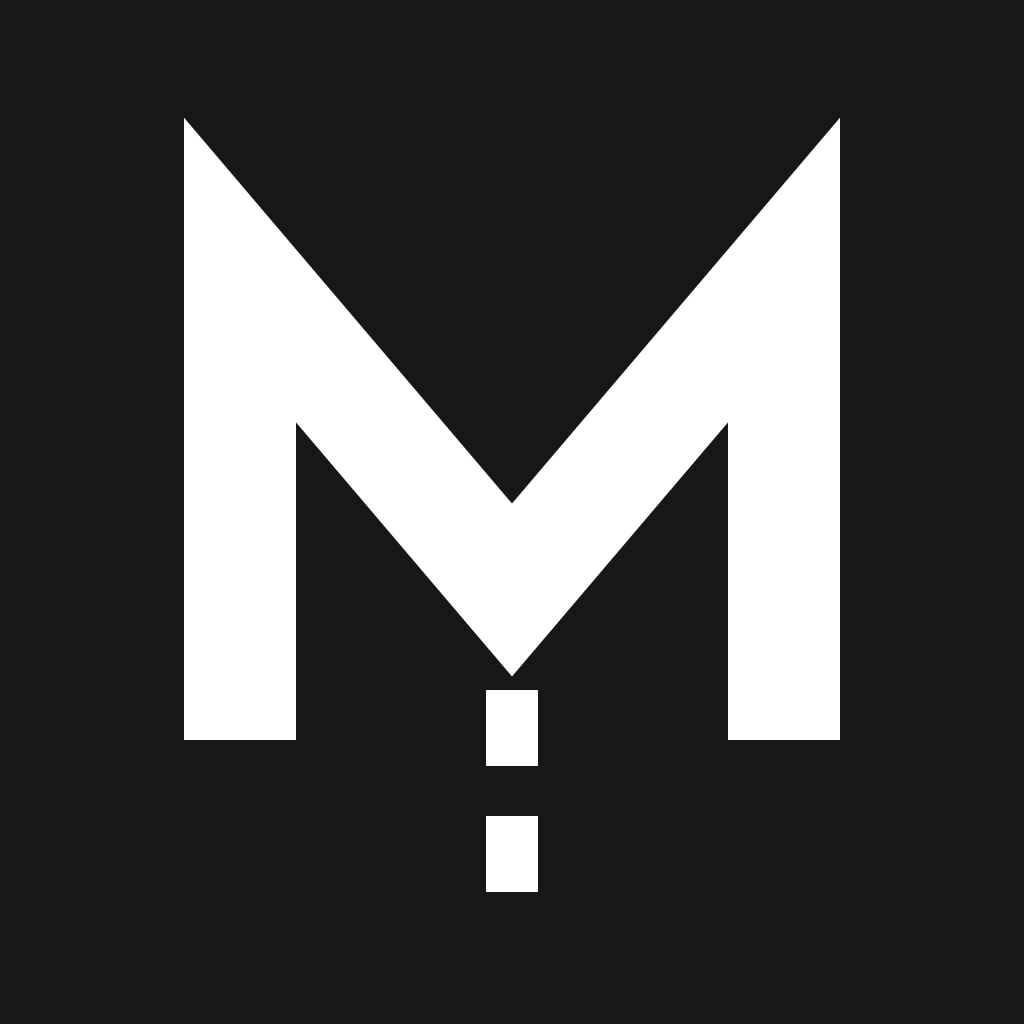
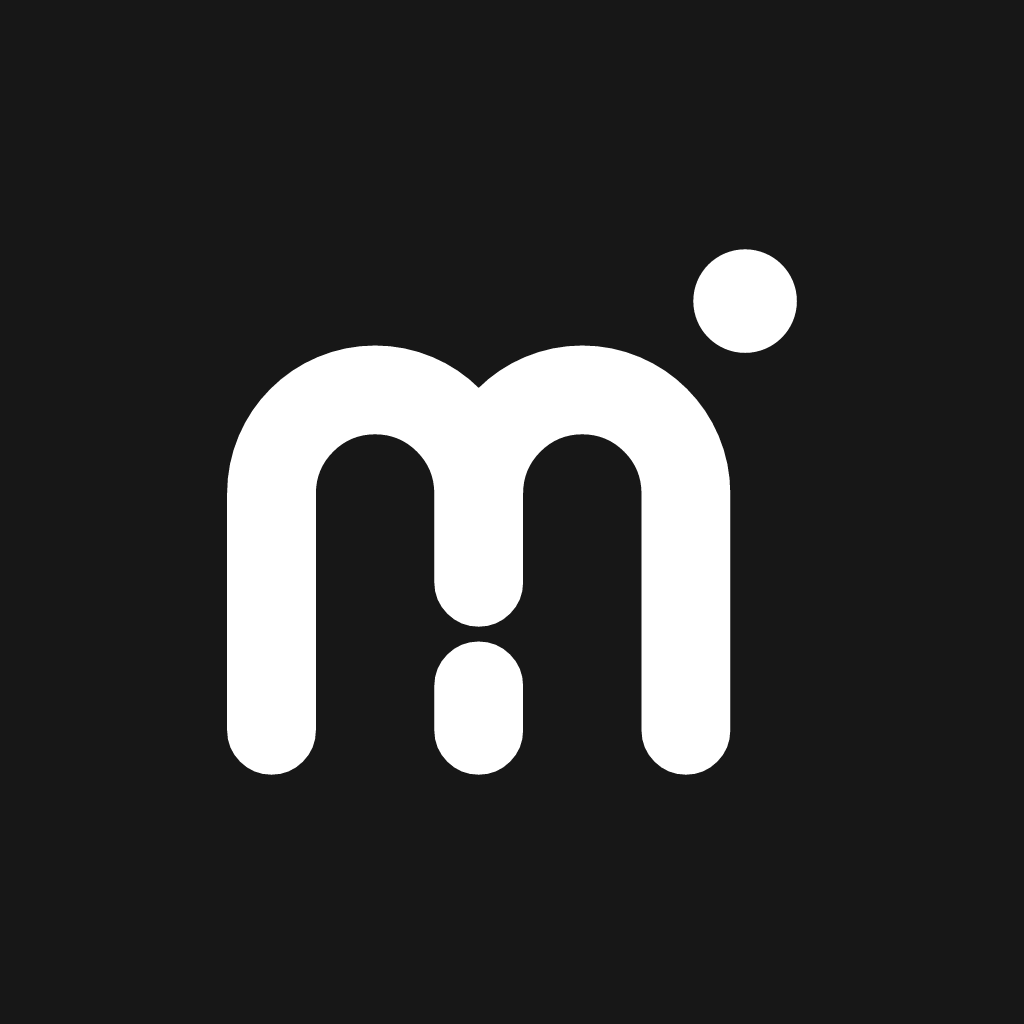
feat: nova marca m de rota, bandeira de tamanho fixo e estado vazio centralizado (#23)

Changed region(s): [[0.1562, 0.125, 0.8438, 0.875], [0.6875, 0.25, 0.7188, 0.2812]]

diff --git a/src/shared/ui/primitives.tsx b/src/shared/ui/primitives.tsx
@@ -310,16 +310,24 @@ export function EmptyState({ title, message, action, illustration, icon }: Empty
   const colors = useTheme();
   return (
     <Card>
-      {illustration ? <Illustration name={illustration} height={100} /> : null}
-      {icon ? (
-        <View style={[styles.emptyIcon, { backgroundColor: colors.surfaceAlt }]}>
-          <AppIcon name={icon} color={colors.textMuted} size={28} />
-        </View>
-      ) : null}
-      <AppText variant="subtitle" bold accessibilityRole="header">
-        {title}
-      </AppText>
-      <AppText tone="muted">{message}</AppText>
+      <View style={styles.empty}>
+        {illustration ? (
+          <View style={styles.stretch}>
+            <Illustration name={illustration} height={100} />
+          </View>
+        ) : null}
+        {icon ? (
+          <View testID="empty-state-icon" style={[styles.emptyIcon, { backgroundColor: colors.surfaceAlt }]}>
+            <AppIcon name={icon} color={colors.textMuted} size={28} />
+          </View>
+        ) : null}
+        <AppText variant="subtitle" bold center accessibilityRole="header">
+          {title}
+        </AppText>
+        <AppText tone="muted" center>
+          {message}
+        </AppText>
+      </View>
       {action}
     </Card>
   );
@@ -409,6 +417,8 @@ const styles = StyleSheet.create({
   dots: { flexDirection: 'row', justifyContent: 'center', gap: spacing.sm },
   dot: { width: 8, height: 8, borderRadius: radius.pill },
   dotActive: { width: 24 },
+  empty: { alignItems: 'center', gap: spacing.md },
+  stretch: { alignSelf: 'stretch' },
   emptyIcon: { width: 56, height: 56, borderRadius: radius.pill, alignItems: 'center', justifyContent: 'center' },
   notice: { flexDirection: 'row', alignItems: 'flex-start', gap: spacing.sm, borderRadius: radius.md, padding: spacing.md },
 });

diff --git a/src/shared/ui/PlatformBadge.tsx b/src/shared/ui/PlatformBadge.tsx
@@ -1,5 +1,5 @@
 import { StyleSheet, Text, View } from 'react-native';
-import { fonts, radius, spacing, useTheme } from '@shared/theme/theme';
+import { fonts, radius, useTheme } from '@shared/theme/theme';
 
 const PLATFORM_STYLES: Record<string, { background: string; text: string }> = {
   Uber: { background: '#000000', text: '#FFFFFF' },
@@ -7,13 +7,18 @@ const PLATFORM_STYLES: Record<string, { background: string; text: string }> = {
   inDrive: { background: '#C1F11D', text: '#111111' },
 };
 
+export const PLATFORM_BADGE_SIZE = { width: 78, height: 32 };
+const LABEL_SIZE = 15;
+const MIN_LABEL_SCALE = 0.6;
+const LABEL_PADDING = 6;
+
 export function PlatformBadge({ name }: { name: string }) {
   const colors = useTheme();
   const style = PLATFORM_STYLES[name] ?? { background: colors.surfaceAlt, text: colors.text };
 
   return (
     <View style={[styles.badge, { backgroundColor: style.background }]}>
-      <Text numberOfLines={1} style={[styles.label, { color: style.text }]}>
+      <Text numberOfLines={1} adjustsFontSizeToFit minimumFontScale={MIN_LABEL_SCALE} maxFontSizeMultiplier={1} style={[styles.label, { color: style.text }]}>
         {name}
       </Text>
     </View>
@@ -21,6 +26,13 @@ export function PlatformBadge({ name }: { name: string }) {
 }
 
 const styles = StyleSheet.create({
-  badge: { alignSelf: 'flex-start', alignItems: 'center', minWidth: 64, borderRadius: radius.sm, paddingHorizontal: spacing.sm, paddingVertical: 2 },
-  label: { fontSize: 13, fontFamily: fonts.bold },
+  badge: {
+    width: PLATFORM_BADGE_SIZE.width,
+    height: PLATFORM_BADGE_SIZE.height,
+    borderRadius: radius.sm - 1,
+    paddingHorizontal: LABEL_PADDING,
+    alignItems: 'center',
+    justifyContent: 'center',
+  },
+  label: { fontSize: LABEL_SIZE, fontFamily: fonts.bold },
 });

diff --git a/src/shared/ui/__tests__/primitives.test.tsx b/src/shared/ui/__tests__/primitives.test.tsx
@@ -1,6 +1,6 @@
 import { render, screen } from '@testing-library/react-native';
 import { MIN_TOUCH_TARGET } from '@shared/theme/theme';
-import { ListRow, Segmented } from '@shared/ui/primitives';
+import { EmptyState, ListRow, Segmented } from '@shared/ui/primitives';
 
 const OPTIONS = [
   { value: 'km', label: 'Quilômetros' },
@@ -32,5 +32,15 @@ describe('ListRow', () => {
   it('linha de navegação é um botão', async () => {
     await render(<ListRow title="Idioma" chevron onPress={jest.fn()} />);
     expect(screen.getByRole('button', { name: 'Idioma' })).toBeTruthy();
+  });
+});
+
+describe('EmptyState', () => {
+  it('centraliza o ícone, o título e a mensagem', async () => {
+    await render(<EmptyState icon="shifts" title="Sem jornadas neste período" message="Registre uma jornada" />);
+
+    expect(screen.getByTestId('empty-state-icon').parent).toHaveStyle({ alignItems: 'center' });
+    expect(screen.getByRole('header', { name: 'Sem jornadas neste período' })).toHaveStyle({ textAlign: 'center' });
+    expect(screen.getByText('Registre uma jornada')).toHaveStyle({ textAlign: 'center' });
   });
 });

diff --git a/src/shared/ui/__tests__/PlatformBadge.test.tsx b/src/shared/ui/__tests__/PlatformBadge.test.tsx
@@ -1,0 +1,17 @@
+import { render, screen } from '@testing-library/react-native';
+import { PLATFORM_BADGE_SIZE, PlatformBadge } from '@shared/ui/PlatformBadge';
+
+describe('PlatformBadge', () => {
+  it.each(['Uber', '99', 'inDrive'])('%s tem o mesmo tamanho fixo', async (name) => {
+    await render(<PlatformBadge name={name} />);
+
+    expect(screen.getByText(name).parent).toHaveStyle(PLATFORM_BADGE_SIZE);
+  });
+
+  it('nome longo diminui para caber, numa linha só', async () => {
+    await render(<PlatformBadge name="Particular" />);
+
+    expect(screen.getByText('Particular')).toHaveProp('adjustsFontSizeToFit', true);
+    expect(screen.getByText('Particular')).toHaveProp('numberOfLines', 1);
+  });
+});

diff --git a/docs/specs/redesign-0.14.md b/docs/specs/redesign-0.14.md
@@ -1,0 +1,106 @@
+# Spec: redesign 0.14.0
+
+Nova marca, barra de navegação flutuante e padronização das telas, a partir do estudo de design aprovado. Cada fase é entregue num PR próprio, com os critérios abaixo e os testes que os confirmam.
+
+- **Jest:** `src/**/__tests__`.
+- **Kotlin:** `modules/copilot/android/src/test`.
+- **Manual:** o que só o aparelho confirma.
+
+## Fase 1. Marca e componentes base
+
+A logo atual é um M com tracejado de estrada. A nova, "m de rota", é um m minúsculo de traço único e cantos arredondados, com o ponto de destino no alto. O estado vazio deixa o ícone encostado à esquerda, e a bandeira do app muda de largura conforme o nome.
+
+### F1.1 Logo
+
+| ID | Critério de aceite | Teste |
+| --- | --- | --- |
+| F1.1.1 | `assets/brand` guarda o símbolo em SVG: ícone, frente e fundo do ícone adaptativo, monocromático e splash | Manual |
+| F1.1.2 | O ícone do app, o ícone adaptativo com a versão monocromática, o splash e o favicon usam o novo símbolo. O símbolo do adaptativo fica dentro da área segura de 66% | Manual |
+| F1.1.3 | O ícone da notificação usa a versão pequena do símbolo, com traço mais grosso e sem o recorte do meio | Manual |
+
+### F1.2 Bandeira do app
+
+| ID | Critério de aceite | Teste |
+| --- | --- | --- |
+| F1.2.1 | `PlatformBadge` tem tamanho fixo de 78x32, com o nome centralizado em 15 px. Uber, 99 e inDrive ficam com a mesma largura em todas as telas | Jest |
+| F1.2.2 | Um nome que não cabe diminui até caber, sem cortar | Jest |
+
+### F1.3 Estado vazio
+
+| ID | Critério de aceite | Teste |
+| --- | --- | --- |
+| F1.3.1 | `EmptyState` centraliza o ícone, a ilustração, o título e a mensagem | Jest |
+
+## Fase 2. Barra flutuante
+
+A barra tem cinco abas presas à borda, e Relatórios repete o que Jornadas já mostra. A jornada em andamento só aparece no Início e na notificação.
+
+### F2.1 Abas
+
+| ID | Critério de aceite | Teste |
+| --- | --- | --- |
+| F2.1.1 | As abas são Início, Jornadas, Ofertas e Mais, numa cápsula solta da borda, acima da área de gestos | Jest |
+| F2.1.2 | A aba ativa mostra ícone e nome numa pílula. As outras mostram só o ícone, com o nome lido pelo leitor de tela. Cada aba tem papel `tab`, estado selecionado e 48 de toque | Jest |
+| F2.1.3 | O contador de ofertas novas continua na aba Ofertas | Jest |
+| F2.1.4 | O conteúdo das abas termina acima da barra, sem ficar escondido atrás dela | Manual |
+
+### F2.2 Botão da jornada
+
+| ID | Critério de aceite | Teste |
+| --- | --- | --- |
+| F2.2.1 | Ao lado da cápsula, um botão redondo mostra o estado da jornada. Sem jornada, é preto com o ícone de iniciar | Jest |
+| F2.2.2 | Sem jornada, tocar no botão inicia a jornada, como "Iniciar jornada" no Início | Jest |
+| F2.2.3 | Com a jornada iniciada, o botão é verde e mostra o tempo. Pausada, é amarelo, com o tempo parado e o ícone de pausa | Jest |
+| F2.2.4 | Com jornada, tocar no botão abre o Início, onde ficam pausar, retomar e encerrar | Jest |
+| F2.2.5 | O tempo é abreviado: `<1min`, `45min`, `2h`, `2h14` e `12h30`, e passa para `24h+` depois de 24 h. Com 5 caracteres ou mais, a fonte diminui | Jest |
+| F2.2.6 | O leitor de tela lê o estado e o tempo por extenso, como "Jornada em andamento, 2 horas e 14 minutos" | Jest |
+
+### F2.3 Relatórios dentro de Jornadas
+
+| ID | Critério de aceite | Teste |
+| --- | --- | --- |
+| F2.3.1 | Jornadas tem duas visões, Lista e Resumo. Resumo é o antigo Relatórios, com período, gráfico, plataformas e exportação | Jest |
+| F2.3.2 | Os atalhos que abriam Relatórios abrem Jornadas no Resumo | Jest |
+
+## Fase 3. Listas
+
+A lista de jornadas mostra o lucro do dia solto ao lado do título. Nas ofertas, o status aceita ou não aceita é um texto a mais em cada linha.
+
+### F3.1 Jornadas por dia
+
+| ID | Critério de aceite | Teste |
+| --- | --- | --- |
+| F3.1.1 | A lista agrupa as jornadas por dia, do mais recente ao mais antigo, num card por dia | Jest |
+| F3.1.2 | O topo do card mostra o dia, quantas jornadas e os km, e o lucro do dia com o rótulo "Lucro do dia" | Jest |
+| F3.1.3 | Cada jornada mostra o horário ou a duração, o faturamento e o lucro dela | Jest |
+
+### F3.2 Linha de oferta
+
+| ID | Critério de aceite | Teste |
+| --- | --- | --- |
+| F3.2.1 | A bandeira do app fica à esquerda, o valor e os detalhes no meio e a nota à direita | Jest |
+| F3.2.2 | O status vira um selo no canto de cima da bandeira, sem cobrir o nome: check verde para aceita, X cinza para não aceita e setas para contraproposta. Sem resposta não tem selo | Jest |
+| F3.2.3 | O leitor de tela continua lendo o status por extenso | Jest |
+
+### F3.3 Cartão do Copiloto
+
+| ID | Critério de aceite | Teste |
+| --- | --- | --- |
+| F3.3.1 | O topo do cartão mostra a bandeira do app maior e a nota com a escala, como `3,0/5`. O rótulo do veredito sai do topo, porque a cor já diz se a corrida é boa, média ou ruim | Kotlin, Manual |
+| F3.3.2 | O veredito continua na descrição lida pelo leitor de tela | Kotlin |
+
+## Fase 4. Primeiro uso
+
+### F4.1 Boas-vindas
+
+| ID | Critério de aceite | Teste |
+| --- | --- | --- |
+| F4.1.1 | A logo aparece grande e centralizada, com espaço até o título | Jest |
+| F4.1.2 | Título e subtítulo ficam juntos, perto do botão "Começar" | Manual |
+
+### F4.2 Passos
+
+| ID | Critério de aceite | Teste |
+| --- | --- | --- |
+| F4.2.1 | Cada passo mostra o progresso no topo e "Pular" no canto | Jest |
+| F4.2.2 | O cadastro do veículo oferece gasolina, etanol, diesel, GNV e elétrico. No elétrico, preço e consumo usam kWh | Jest |

diff --git a/docs/arquitetura.md b/docs/arquitetura.md
@@ -311,3 +311,10 @@ Spec: `docs/specs/fluxos-e-regras-0.13.md`.
 - **Alterações não salvas:** `useUnsavedChangesGuard` usa `usePreventRemove` do expo-router. O formulário da jornada só fica "alterado" pelo que a pessoa digita, e não pela hidratação, pela medição aplicada ou pelo odômetro sugerido. Salvar chama a liberação antes de navegar.
 - **Correção da oferta:** `copilot.setOfferStatus` grava o resultado pelo `timestamp`, a chave do registro, com o mesmo `markOutcome` usado no toque.
 - **Lembrete que se repete:** `reminders.repeat_km` guarda o intervalo de um lembrete por km, para oferecer o próximo ao concluir.
+
+## Decisões da versão 0.14.0
+
+Spec: `docs/specs/redesign-0.14.md`.
+
+- **Marca "m de rota":** o símbolo é um m minúsculo de traço único com o ponto de destino. Os SVGs de `assets/brand` são a fonte, e os PNGs de `assets` são gerados a partir deles. O ícone da notificação usa a versão pequena, sem o recorte do meio e com traço mais grosso, para continuar legível em 24 dp.
+- **Bandeira de tamanho fixo:** `PlatformBadge` mede sempre 78x32, então as bandeiras alinham em colunas em qualquer lista. Um nome que não cabe diminui a fonte, em vez de alargar a bandeira.
